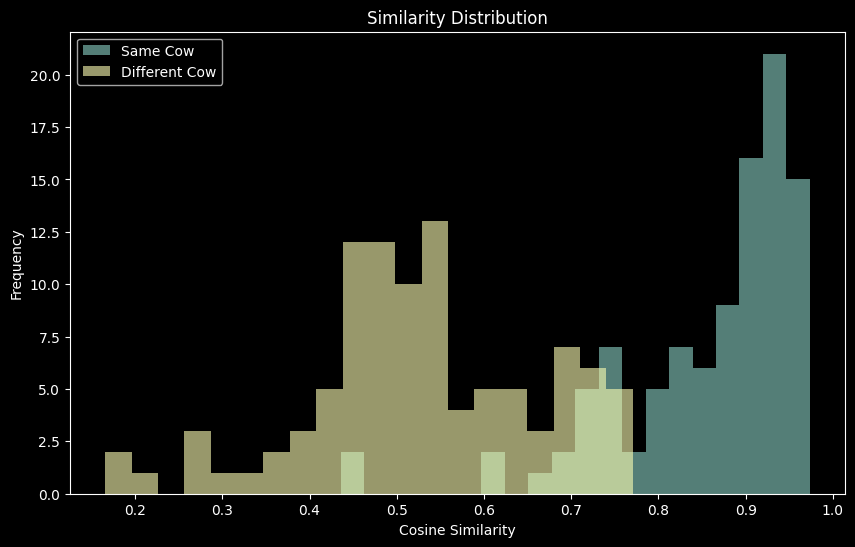
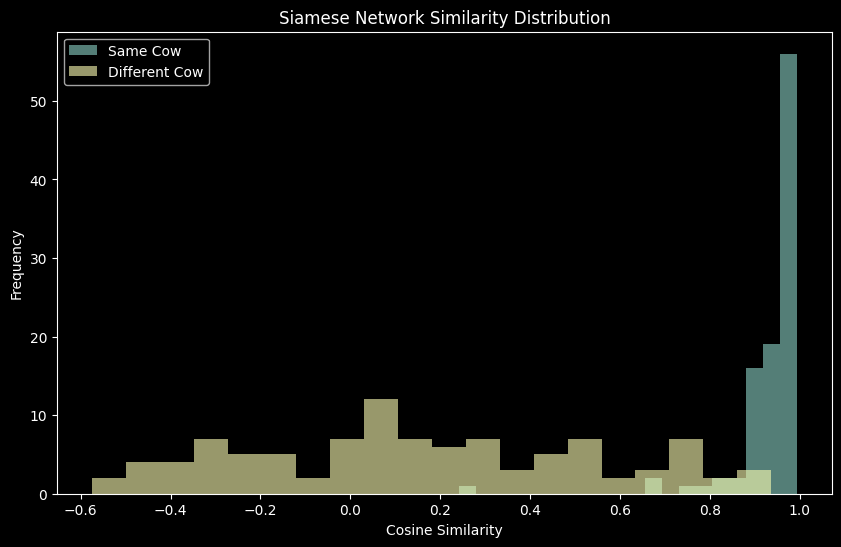
Update similarity metrics in README.md

diff --git a/README.md b/README.md
@@ -12,15 +12,15 @@ Example similarity scores from testing:
 
 **Same Cow**
 ```text
-Mean: 0.856808
-Min : 0.43585542
-Max : 0.97353923
+Mean: 0.935258
+Min : 0.24305052
+Max : 0.99367917
 ```
 **Different Cow**
 ```text
-Mean: 0.5298519
-Min : 0.16582283
-Max : 0.77043164
+Mean: 0.1563636
+Min : -0.57475066
+Max : 0.9371778
 ```
 
 ### Similarity Distribution